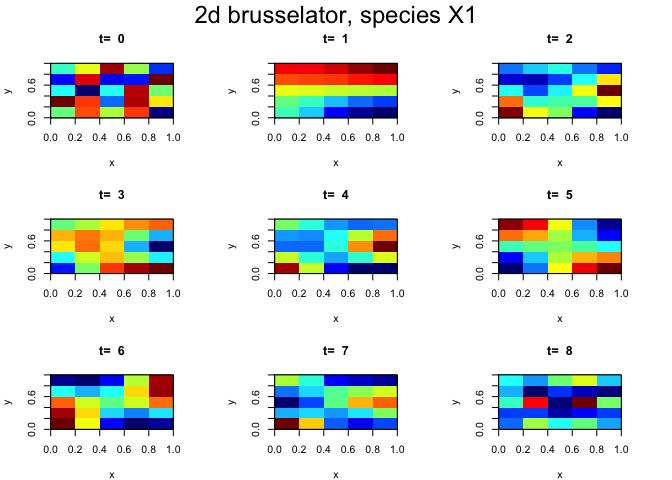
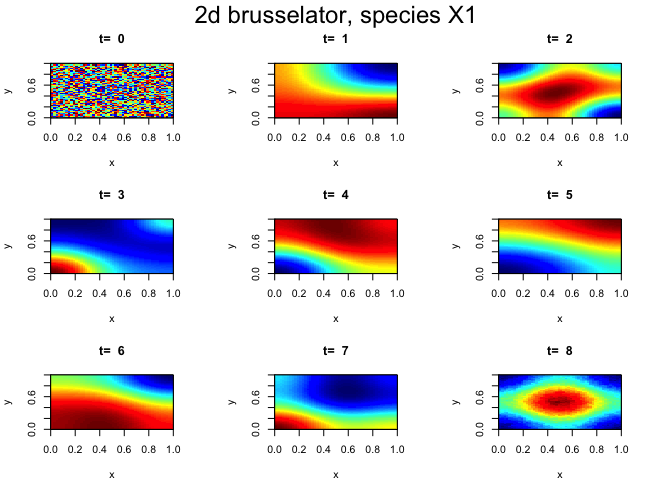
gg scale

diff --git a/pde/brusselator/brusselator.md b/pde/brusselator/brusselator.md
@@ -39,8 +39,8 @@ require(ReacTran)
 ``` r
 require(deSolve)
 
-Nx <- 5
-Ny <- 5
+Nx <- 50
+Ny <- 50
 Gridx <- setup.grid.1D(x.up = 0, x.down = 1, N = Nx)  
 Gridy <- setup.grid.1D(x.up = 0, x.down = 1, N = Ny)
 
@@ -65,7 +65,7 @@ print(system.time(
 ```
 
     ##    user  system elapsed 
-    ##   0.546   0.018   0.571
+    ##   3.441   0.230   3.721
 
 ``` r
 # > skim(out)
@@ -110,10 +110,21 @@ par(oma=c(0,0,1,0), mar=rep(4,4)) # oma = increase the size of the outer margin
 # out[1,1:26] <- 0   # the next 25 data columns are data for equation X1
 # out[2,27:51] <- 0  # then, the trailing 25 data columns are data for equation X2
 #
-ggRow <- 3
-ggData.matrix <- cbind(out[ggRow,2:6], out[ggRow,7:11], 
+# per the [NOTE] below, rows are handed to image() as 'columns'
+#                       columns are handed to image() as 'rows', but they are in reverse order
+#
+# 90 degree counter clockwise rotation of R matrix:
+# Doing the transpose prior to the reverse is the same as rotate counter clockwise:
+# https://stackoverflow.com/questions/16496210/rotate-a-matrix-in-r
+# foo <- apply(t(foo),2,rev)
+#
+ggRow <- 2
+ggData.matrix <- rbind(out[ggRow,2:6], out[ggRow,7:11], 
                    out[ggRow,12:16], out[ggRow,17:21],
                    out[ggRow,22:26])
+ggData.matrix <- apply(t(ggData.matrix),2,rev)
+
+
 # http://www.sthda.com/english/wiki/ggplot2-quick-correlation-matrix-heatmap-r-software-and-data-visualization
 library(reshape)
 melt.ed <- melt(ggData.matrix)
@@ -125,10 +136,11 @@ gg1 <- ggplot(data = melt.ed, aes(x=X1, y=X2, fill=value)) +
                        midpoint = .5, limit = c(0,1),
                        name="scale heading")
 
-ggRow <- 7
-ggData.matrix <- cbind(out[ggRow,2:6], out[ggRow,7:11], 
+ggRow <- 1
+ggData.matrix <- rbind(out[ggRow,2:6], out[ggRow,7:11], 
                    out[ggRow,12:16], out[ggRow,17:21],
                    out[ggRow,22:26])
+ggData.matrix <- apply(t(ggData.matrix),2,rev)
 melt.ed <- melt(ggData.matrix)
 gg2 <- ggplot(data = melt.ed, aes(x=X1, y=X2, fill=value)) + 
   geom_tile(color = "white") +
@@ -142,6 +154,11 @@ grid.arrange(gg1, gg2)
 ![](brusselator_files/figure-markdown_github/unnamed-chunk-1-1.png)
 
 ``` r
+# > ?image  [NOTE]
+# ... Notice that image interprets the z matrix as a table of f(x[i], y[j]) values, so that the x axis 
+# corresponds to row number and the y axis to column number, with column 1 at the bottom, i.e. a 90 
+# degree counter-clockwise rotation of the conventional printed layout of a matrix.
+#
 # 'which' extracts a 'property' representing solution values for one of the equations (pg 160)
 image(out, which="X1", xlab="x", ylab="y", mfrow = c(3,3), ask=FALSE,
       main=paste("t= ", times),
